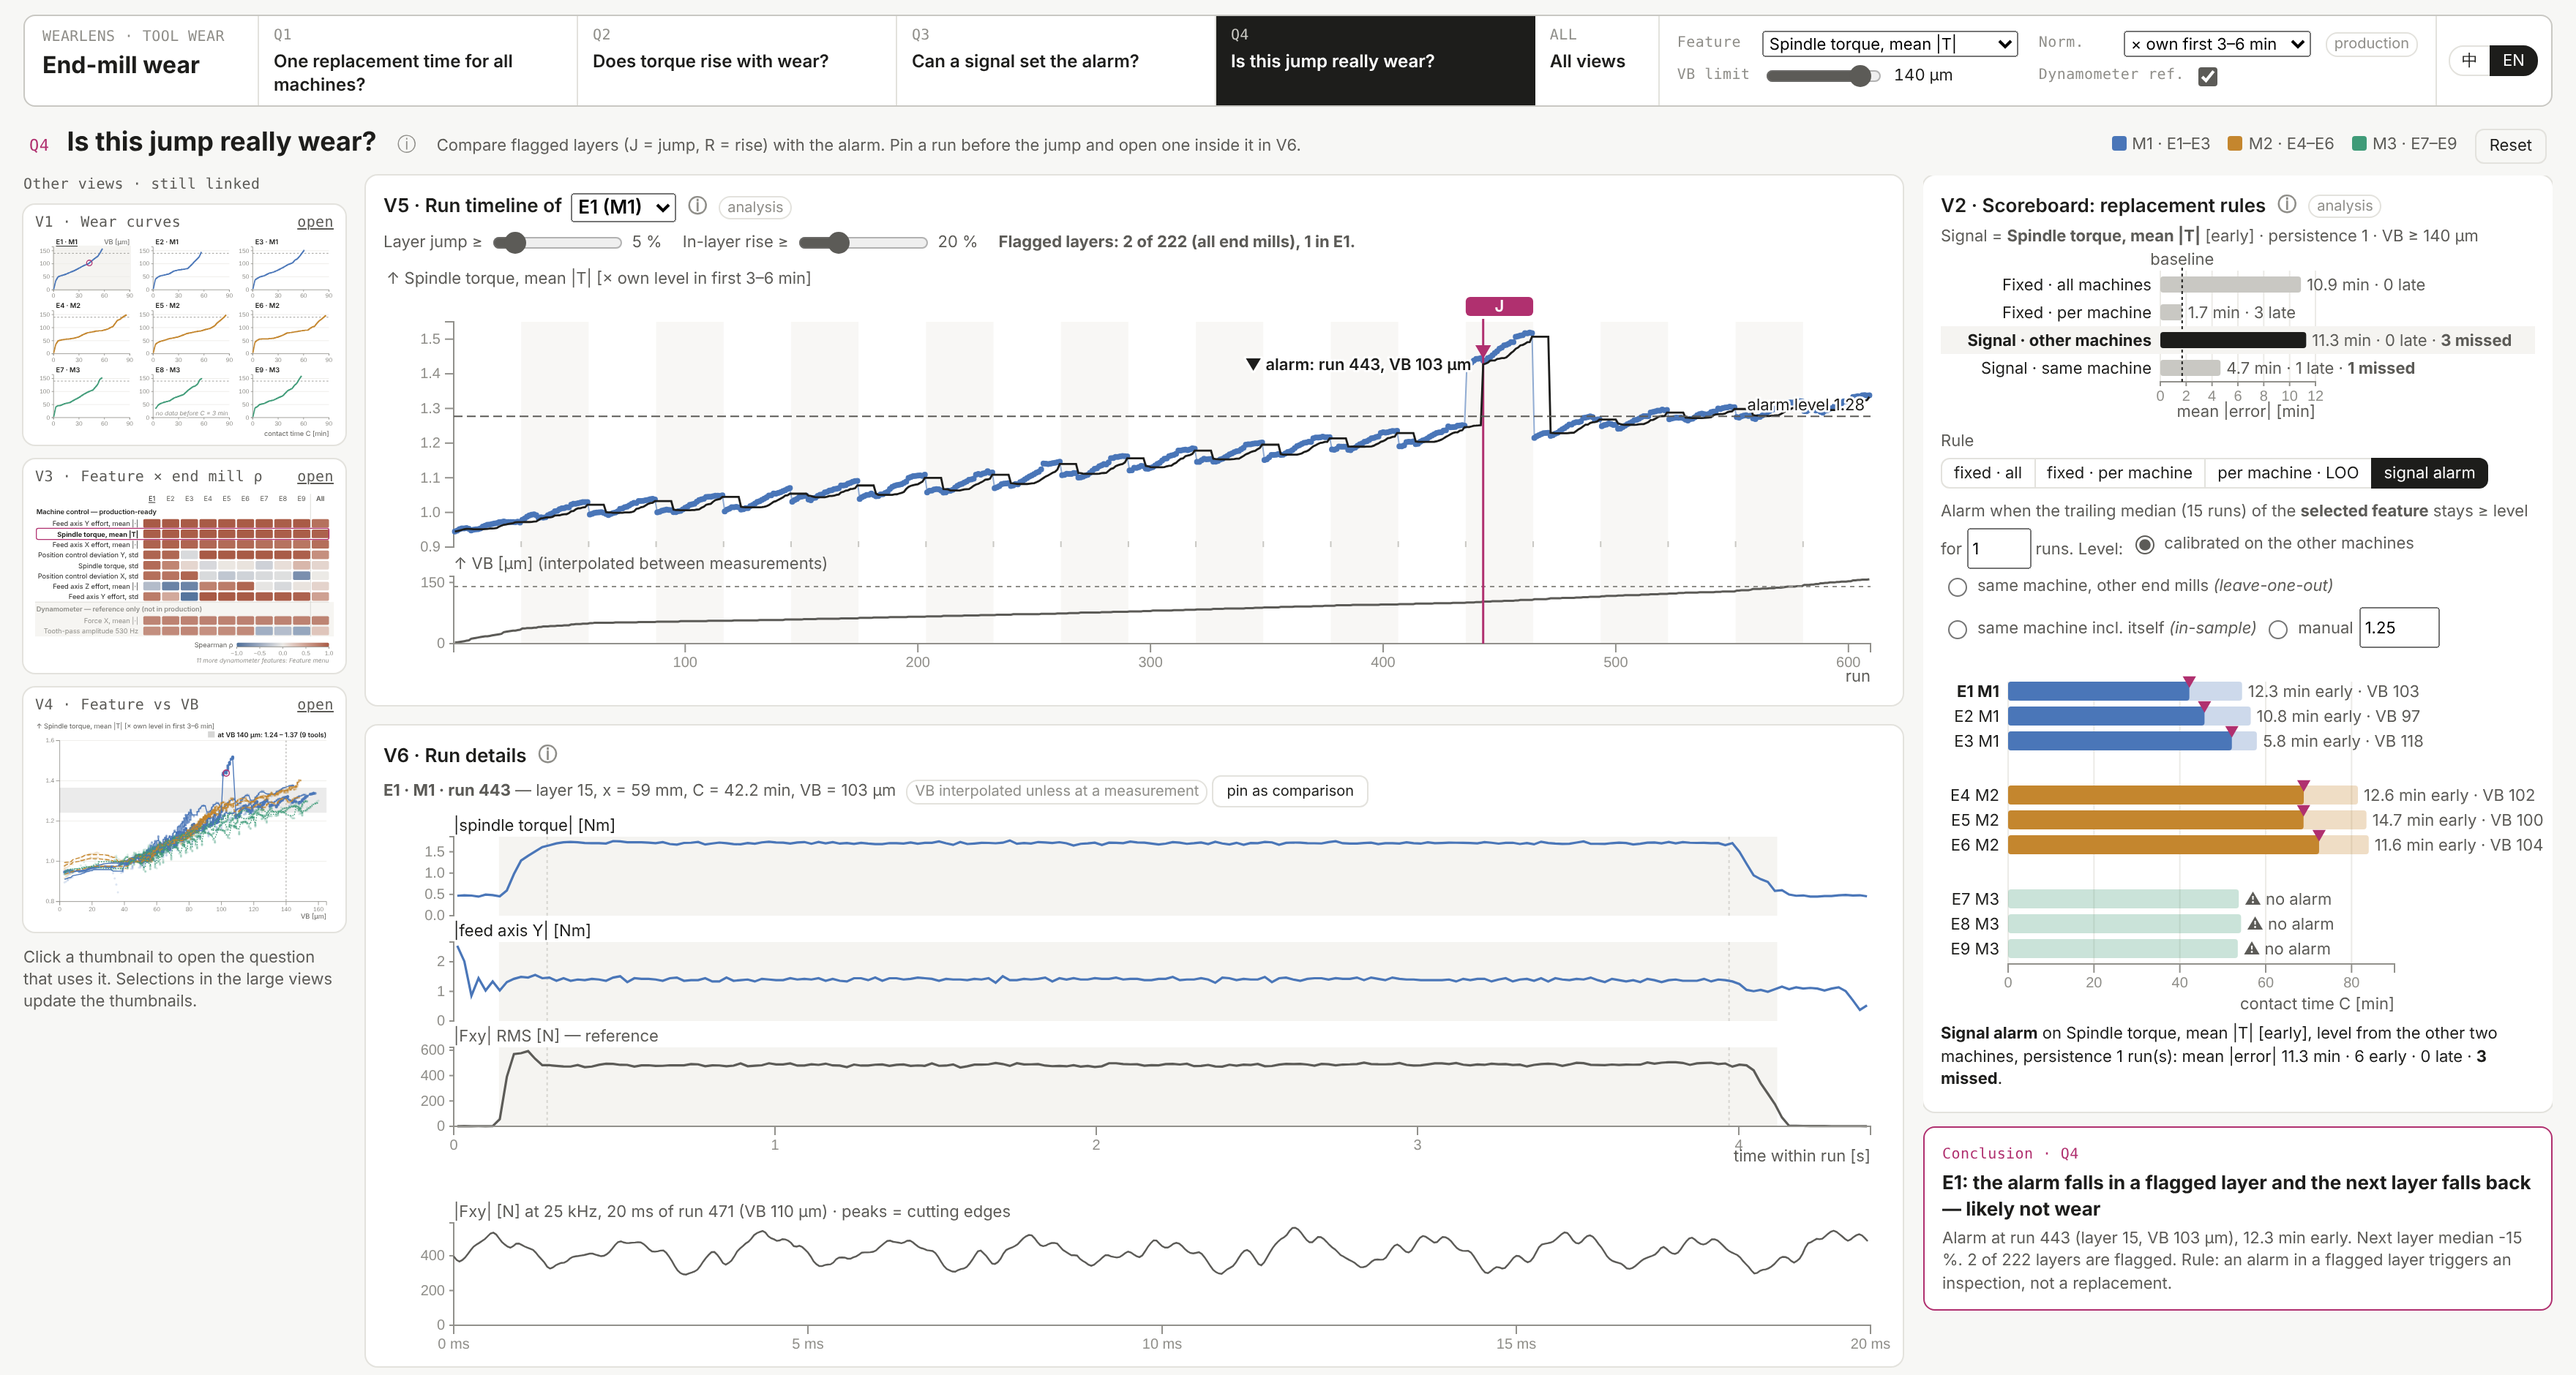
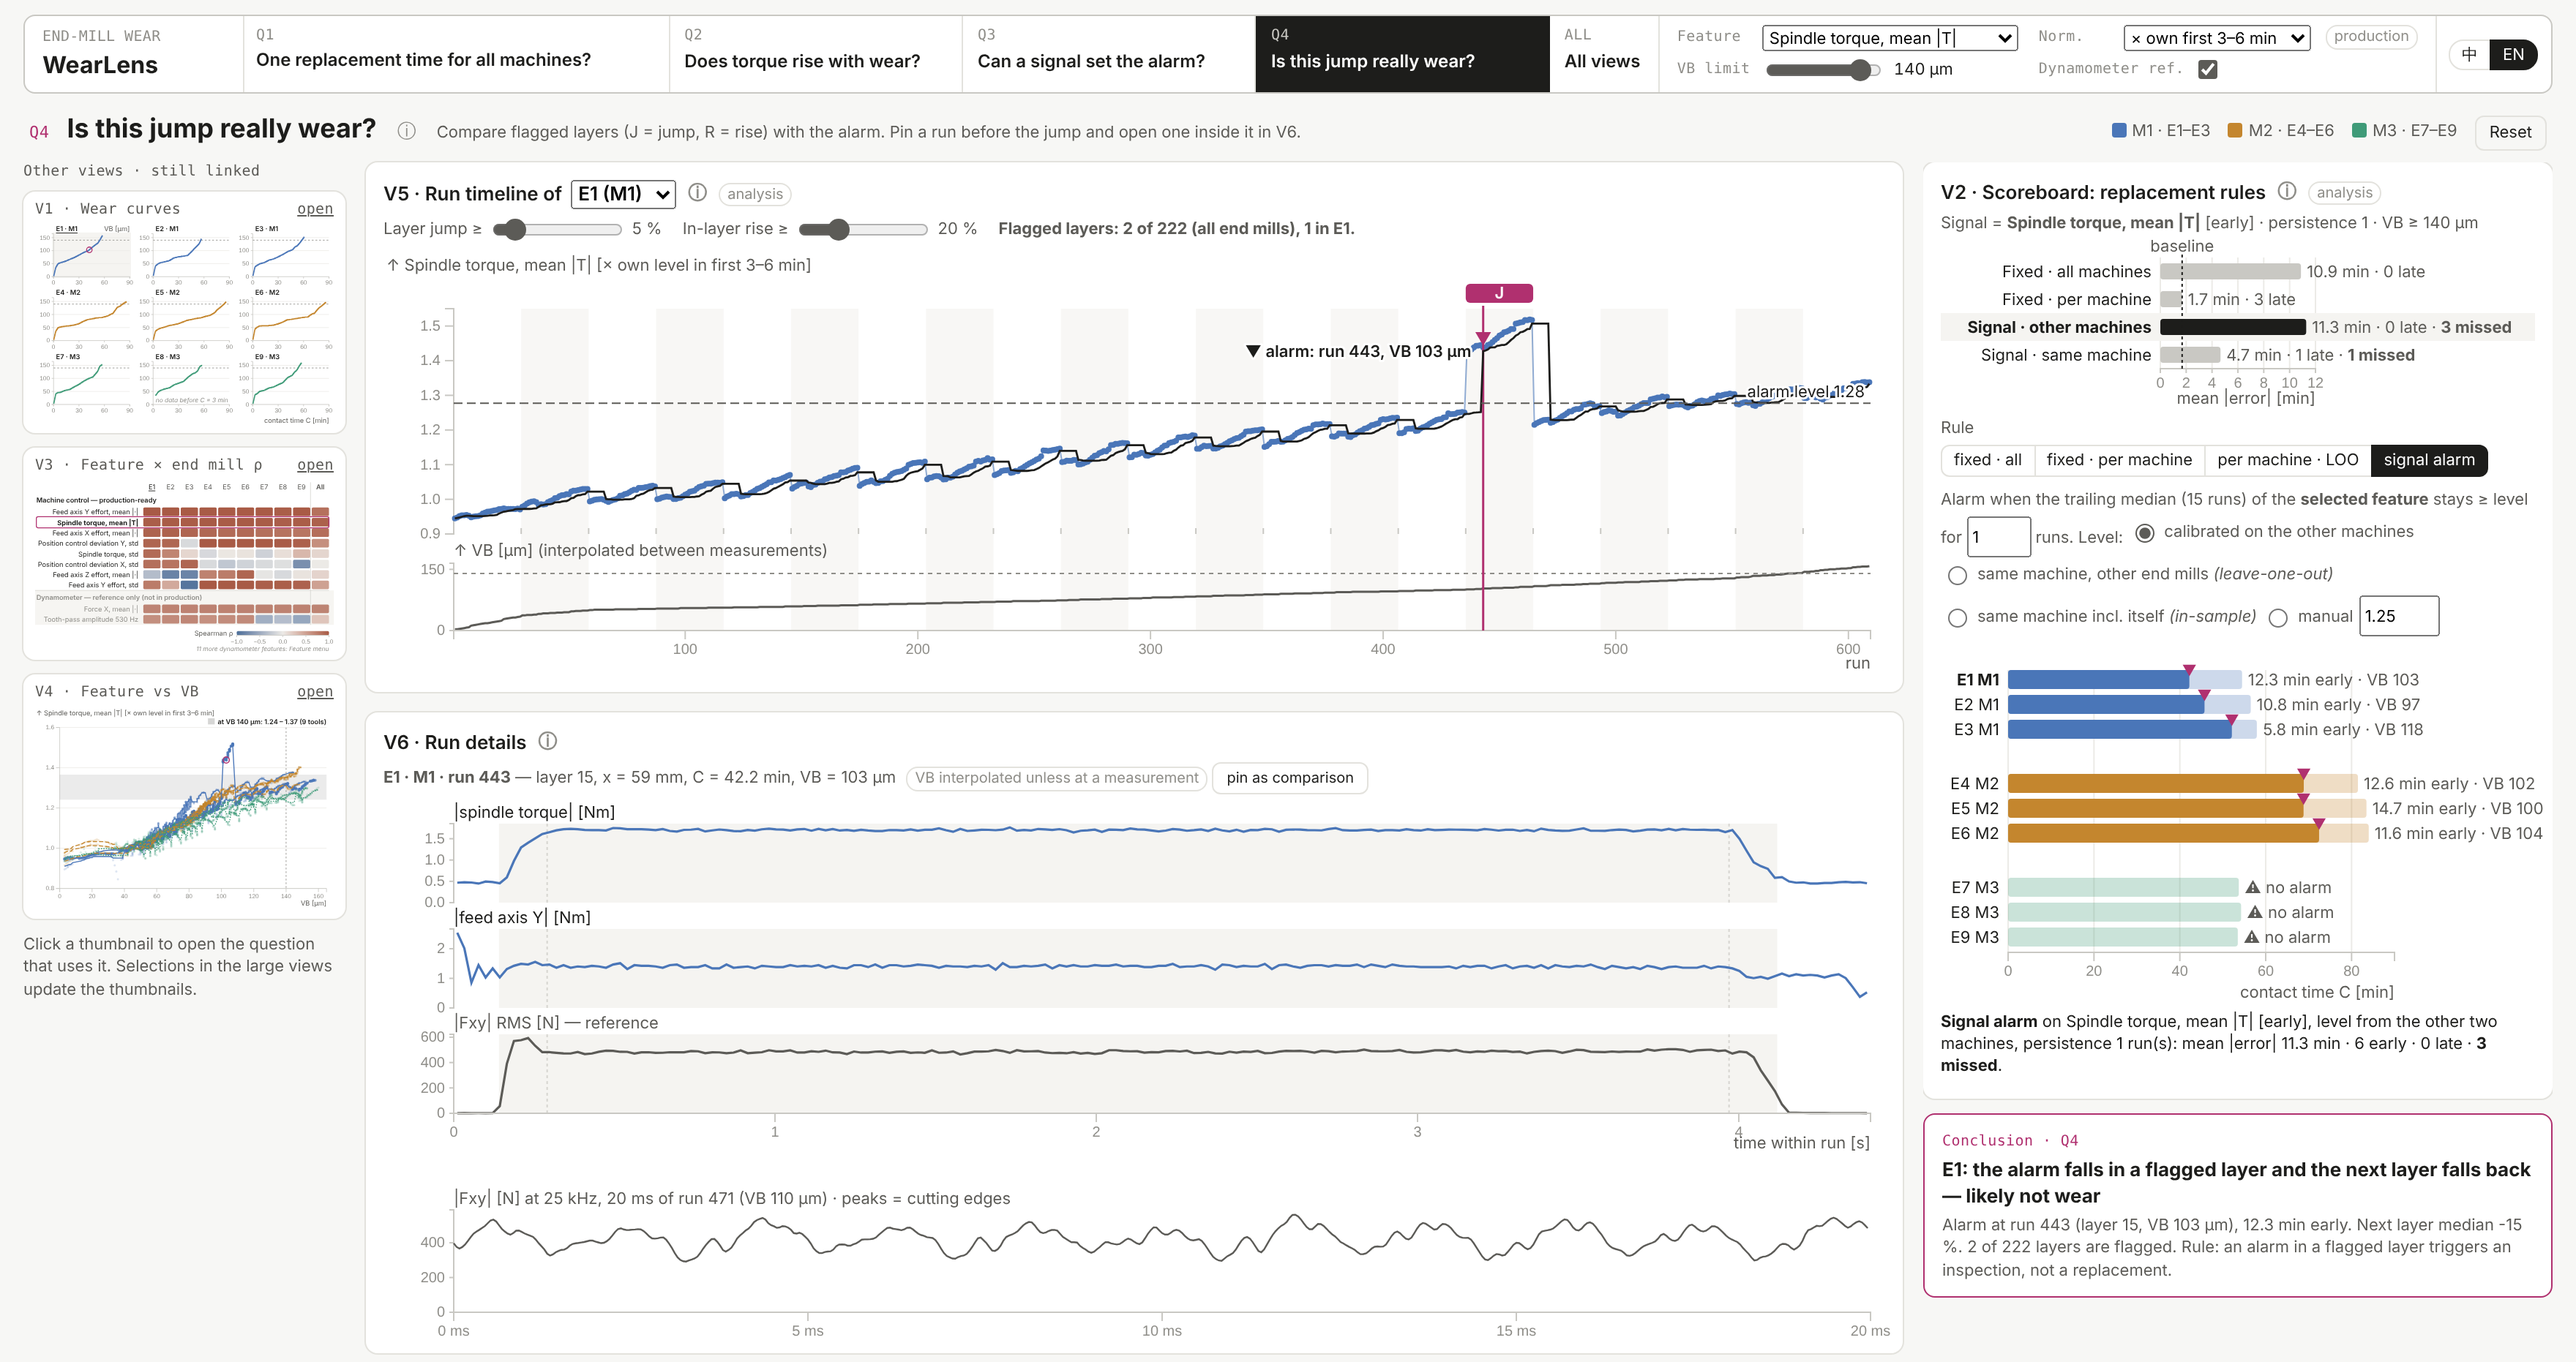
Retake report and CVD screenshots after the header update; record the current axis contrast
Claude-Session: https://claude.ai/code/session_01RSUiiaGPi9MA599zgasVHv

diff --git a/docs/04_verification.md b/docs/04_verification.md
@@ -44,7 +44,7 @@
 | 機台三色(M1 `#4a76b8` / M2 `#c4862e` / M3 `#3f9b78`),dataviz `validate_palette.js`,所有配對比較 | 色盲 ΔE ≥ 8.5(≥ 8 通過),一般視覺 ΔE ≥ 16.9,對白底對比 ≥ 3 : 1;另加文字標籤和圖例 |
 | 強調色 `#b0306f` | 只用在警示、J/R 標記與選取,已和機台三色一起驗證 |
 | 色盲模擬(Chrome 模擬:綠色盲、紅色盲、藍黃色盲;`verify_app.js` 自動拍) | `docs/figs/stage8_cvd_{deuteranopia,protanopia,tritanopia}.png`。三台機台仍可區分;另外 **V4 趨勢線加了線型作為第二編碼**(M1 實線、M2 虛線、M3 點線) |
-| 文字與軸線對比(白底,依 `style.css` 重算) | 主文字 `#1d1d1b` 16.9 : 1,次要文字 `#5c5b57` 6.8 : 1,淡色註解 `#8f8e89` 3.3 : 1;軸線 `#92918c` 3.2 : 1(非文字 ≥ 3 : 1;原本 `#c9c8c3` 只有 1.7 : 1,已加深) |
+| 文字與軸線對比(白底,依 `style.css` 重算) | 主文字 `#1d1d1b` 16.9 : 1,次要文字 `#5c5b57` 6.8 : 1,淡色註解 `#8f8e89` 3.3 : 1;軸線 `#c9c8c3` 1.7 : 1(低於非文字 3 : 1 建議;曾加深為 `#92918c`,後依組員的版面修改改回淺色) |
 | 發散色階(ρ) | 降低飽和度的藍 − 灰 − 磚紅,中點為中性灰;格子不印數字,hover 顯示 ρ 與 n |
 | 單位與標籤 | 每個軸都有單位;正規化後的單位會隨選項改變;raw 模式下進給軸提示「M1 為 Nm,M2/M3 為 N」 |
 | 雙軸 | 無(V5 的 VB、V6 的各訊號都分成上下圖) |
@@ -52,5 +52,6 @@
 
 ## 4. 已知限制(要寫進報告第 9 節)
 - 介面只做淺色模式,沒有做深色模式。
+- 軸線顏色 `#c9c8c3` 對白底只有 1.7 : 1,低於非文字 3 : 1 的建議。
 - V4 有 6,418 個 SVG 點,在低階筆電上刷選可能略有延遲。
 - 層級診斷只是旗標,不代表原因;原因需要使用者下鑽判斷,而且資料中沒有停機或裝夾紀錄可以確認。
